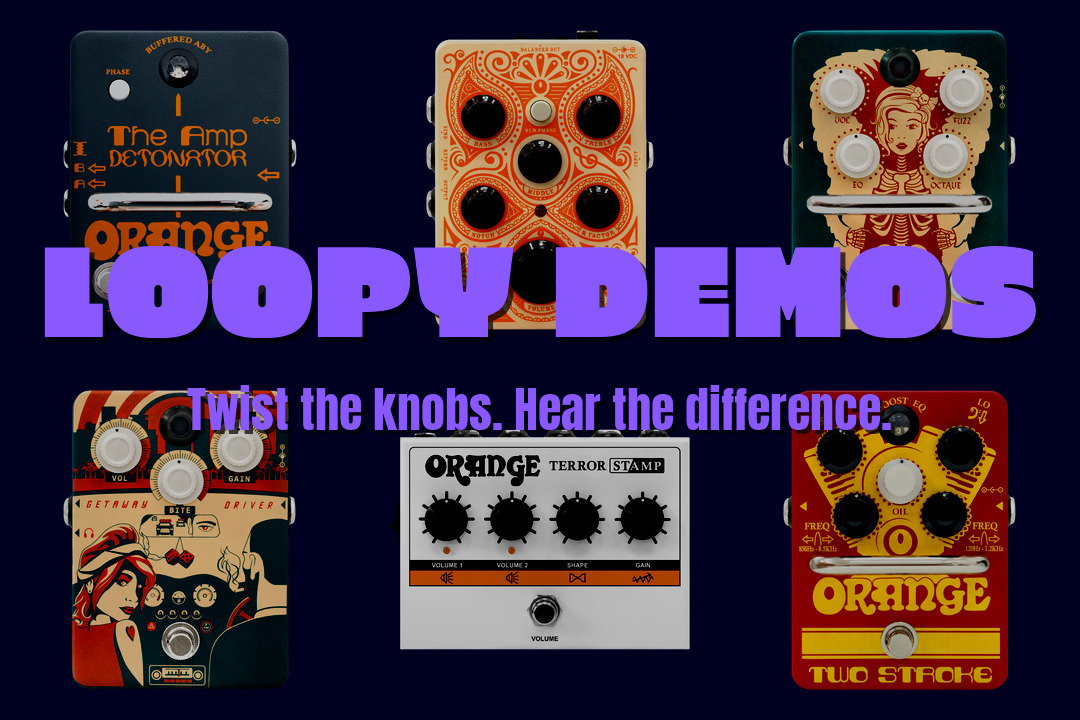
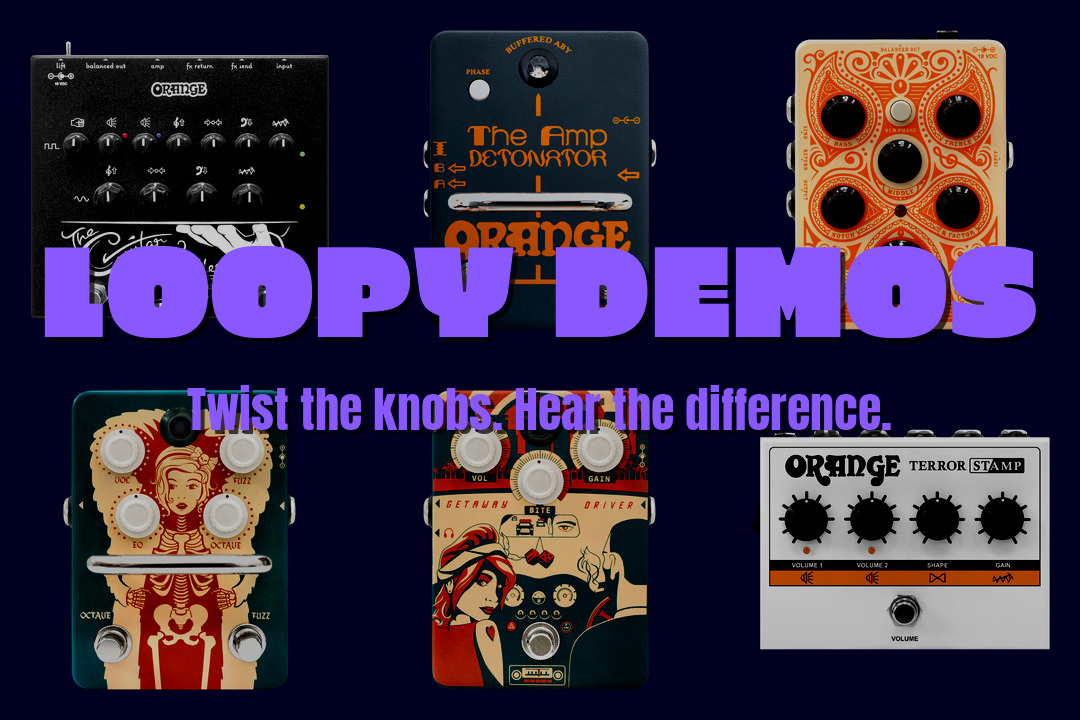
Orange guitar butler (#45)
* feat: toggle butler properly

* feat: filter unpublished demos from og image

* feat: add guitar butler demo files and presets

diff --git a/src/content/demos/orange-bass-butler.md b/src/content/demos/orange-bass-butler.md
@@ -4,17 +4,23 @@ model: Bass Butler
 slug: orange-bass-butler
 type: none
 isSponsored: true
-date: 2025-07-06
+date: 2025-07-27
 tags:
   - bass preamp
   - bass overdrive
 externalLinks:
-  thomann: ...
-  builderLink: ...
-  sweetwater: ...
+  thomann: orange_bass_butler
+  builderLink: https://orangeamps.com/bass-butler-preamp/
+  sweetwater: https://sweetwater.sjv.io/GKkgjV
 ---
 
-Write some copy about the Bass Butler by Orange.
+The Orange Bass Butler is genuinely one of the most complete bass solutions I've ever used in pedal form. This bi-amp preamp gives you two completely separate signal chains – a clean channel and a high-gain guitar channel – running in parallel just like a real bi-amp rig. The 18V power supply delivers serious headroom, keeping both channels tight and punchy even when you're really digging in.
+
+What makes the Bass Butler special is how well thought-out each channel is. The bass side keeps it simple with compression, bass, treble, and volume controls, plus a Class A VCA compressor that adds that signature Orange character. The guitar channel is where things get wild – four gain stages with five controls that can take you from musical overdrive to absolutely crushing modern tones. Both channels have their own XLR outputs with dedicated cabinet simulation, so you're ready to record or go direct to the PA right out of the box.
+
+The practical features are what really seal the deal. You get an expression pedal input for controlling the input gain, a ground lift switch for solving earth loops, and a blended amp output that combines both channels before the cab sim. The cabinet simulations are spot-on too – an Orange OBC410 for the bass side and a PPC412 for the guitar side. It's genuinely ready for recording straight away, no additional processing needed.
+
+I love how the Bass Butler doesn't just give you a bass preamp with some dirt – it's a complete bi-amp system that lets you blend fundamental bass tones with aggressive guitar-style overdrive. It's massive (takes up about three Boss pedal spaces) and needs that unique 18V power supply, but for bass players who want the ultimate fly rig or studio tool, this thing delivers everything you could need in one box.
 
 ### Signal Chain
 

diff --git a/.claude/commands/copy.md b/.claude/commands/copy.md
@@ -45,7 +45,7 @@ Based on the existing content, follow these style principles:
 
 ### Examples of Good Opening Lines
 - "The [Pedal Name] nails that [specific tone/era] in a [simple/compact] [pedal type]"
-- "I love the [Pedal Name] because it just [does specific thing really well]"
+- "I enjoy the [Pedal Name] because it just [does specific thing really well]"
 - "[Pedal Name] is one of those pedals that [specific quality/behavior]"
 
 ### Common Technical Elements to Address

diff --git a/src/content/demos/orange-the-guitar-butler.md b/src/content/demos/orange-the-guitar-butler.md
@@ -1,10 +1,10 @@
 ---
 builder: Orange
-model: Guitar Butler
-slug: orange-guitar-butler
-type: none
+model: The Guitar Butler
+slug: orange-the-guitar-butler
+type: demo
 isSponsored: true
-date: 2025-07-25
+date: 2025-07-26
 tags:
   - preamp
   - dual channel
